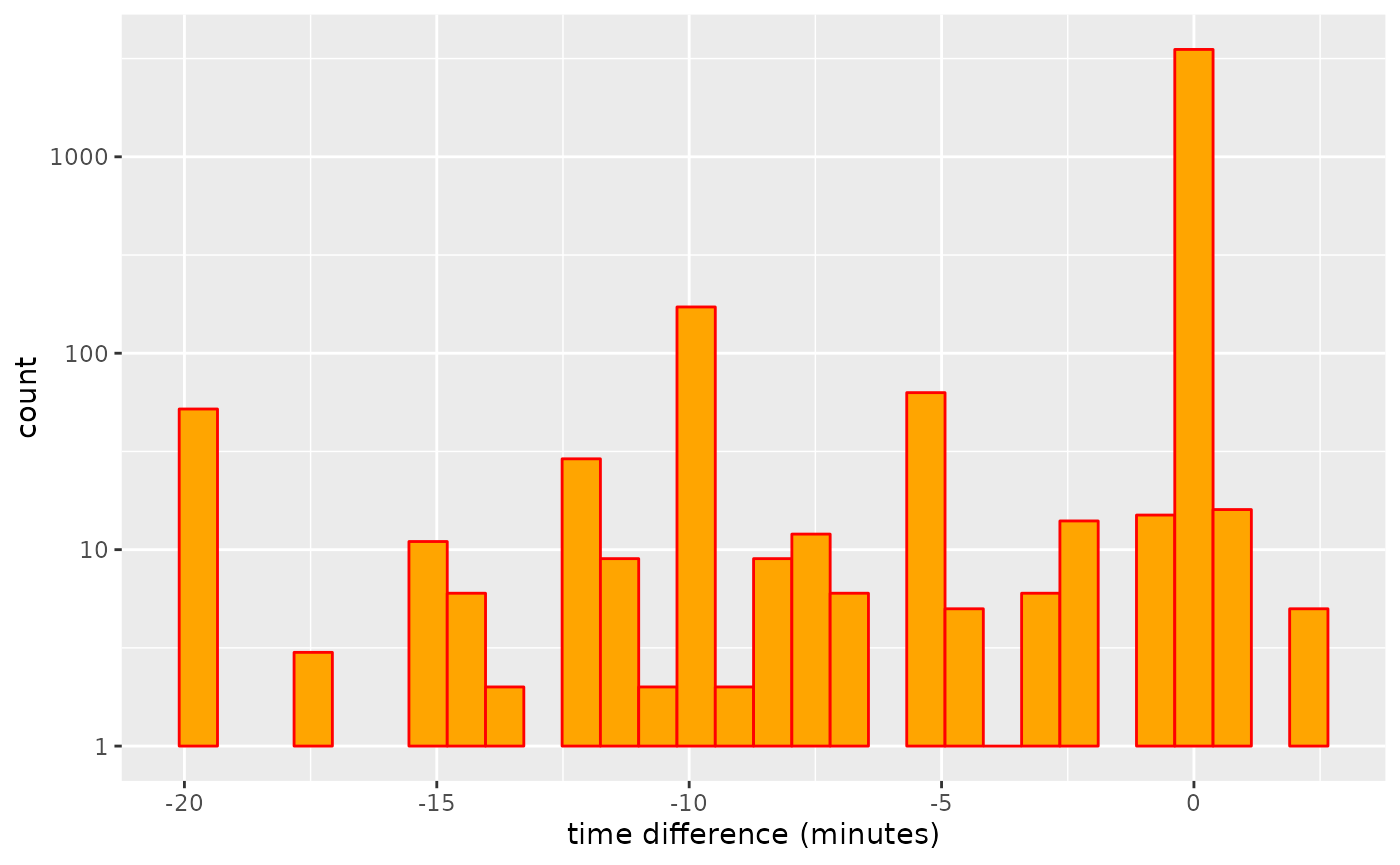
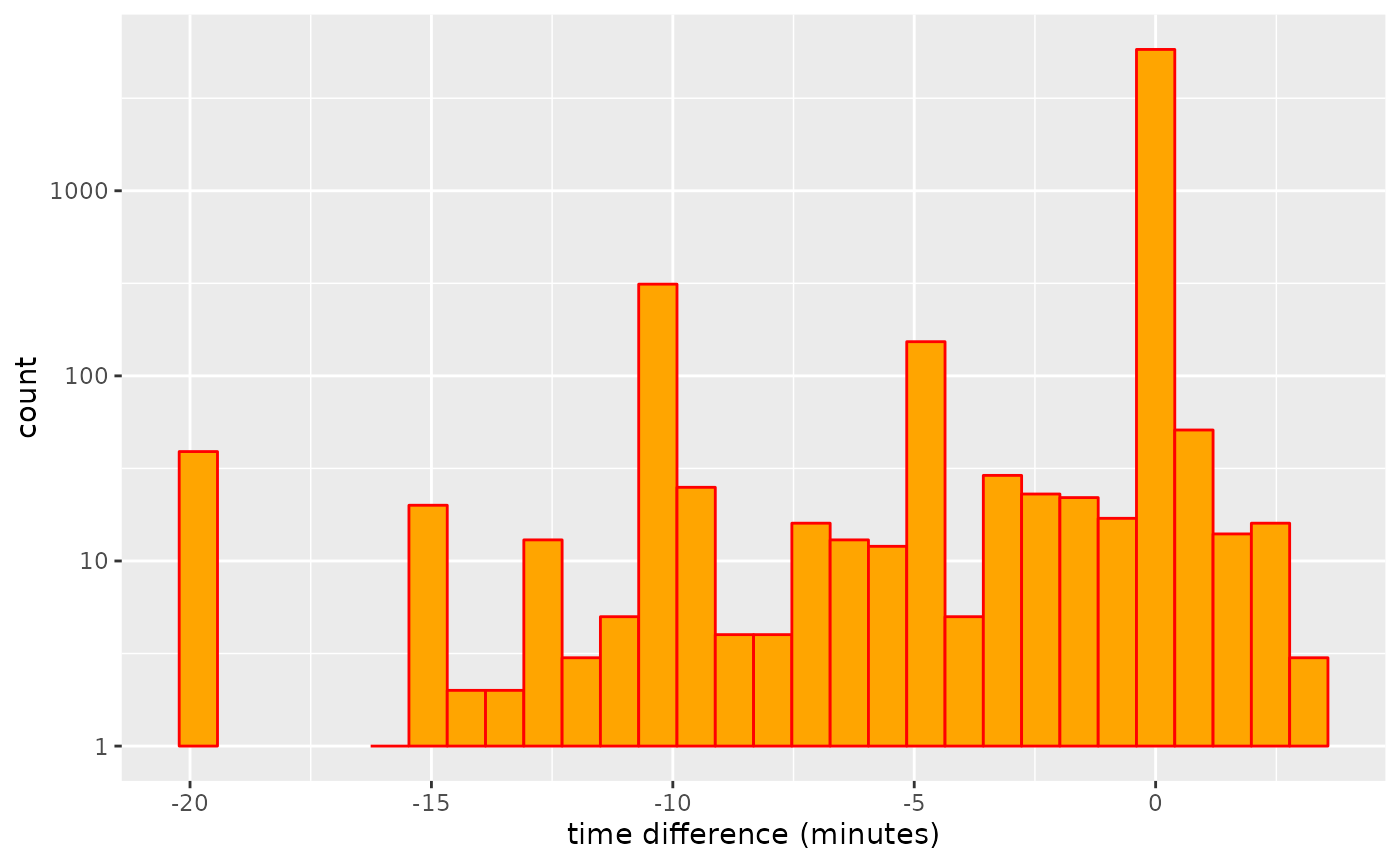
Deploying to gh-pages from @ UrbanAnalyst/gtfsrouter@def994a043a3b591fa6eb3aa555f8c587bdfed8a 🚀

diff --git a/docs/articles/gtfsrouter.html b/docs/articles/gtfsrouter.html
@@ -33,7 +33,7 @@
       </button>
       <span class="navbar-brand">
         <a class="navbar-link" href="../index.html">gtfsrouter</a>
-        <span class="version label label-default" data-toggle="tooltip" data-placement="bottom" title="">0.1.0.004</span>
+        <span class="version label label-default" data-toggle="tooltip" data-placement="bottom" title="">0.1.0.005</span>
       </span>
     </div>
 
@@ -126,7 +126,7 @@ to a locally-stored <code>.zip</code> archive in the
 data can be exported and re-imported with:</p>
 <div class="sourceCode" id="cb1"><pre class="downlit sourceCode r">
 <code class="sourceCode R"><span><span class="fu"><a href="../reference/berlin_gtfs_to_zip.html">berlin_gtfs_to_zip</a></span><span class="op">(</span><span class="op">)</span></span></code></pre></div>
-<pre><code><span><span class="co">## [1] "/tmp/Rtmp9mP8nu/vbb.zip"</span></span></code></pre>
+<pre><code><span><span class="co">## [1] "/tmp/Rtmp1UN9il/vbb.zip"</span></span></code></pre>
 <div class="sourceCode" id="cb3"><pre class="downlit sourceCode r">
 <code class="sourceCode R"><span><span class="va">f</span> <span class="op">&lt;-</span> <span class="fu"><a href="https://rdrr.io/r/base/file.path.html" class="external-link">file.path</a></span> <span class="op">(</span><span class="fu"><a href="https://rdrr.io/r/base/tempfile.html" class="external-link">tempdir</a></span> <span class="op">(</span><span class="op">)</span>, <span class="st">"vbb.zip"</span><span class="op">)</span></span>
 <span><span class="fu"><a href="https://rdrr.io/r/base/files.html" class="external-link">file.exists</a></span> <span class="op">(</span><span class="va">f</span><span class="op">)</span></span></code></pre></div>
@@ -347,7 +347,7 @@ data:</p>
 <span>                day <span class="op">=</span> <span class="st">"Sunday"</span><span class="op">)</span></span>
 <span>    <span class="op">)</span></span></code></pre></div>
 <pre><code><span><span class="co">##    user  system elapsed </span></span>
-<span><span class="co">##   0.076   0.000   0.076</span></span></code></pre>
+<span><span class="co">##   0.054   0.000   0.054</span></span></code></pre>
 <div class="sourceCode" id="cb14"><pre class="downlit sourceCode r">
 <code class="sourceCode R"><span><span class="fu"><a href="https://rdrr.io/r/base/names.html" class="external-link">names</a></span> <span class="op">(</span><span class="va">gtfs</span><span class="op">)</span></span></code></pre></div>
 <pre><code><span><span class="co">## [1] "calendar"   "routes"     "trips"      "stop_times" "stops"     </span></span>
@@ -365,7 +365,7 @@ data:</p>
 <span>                         to <span class="op">=</span> <span class="va">to</span>,</span>
 <span>                         start_time <span class="op">=</span> <span class="st">"12:00:00"</span><span class="op">)</span><span class="op">)</span></span></code></pre></div>
 <pre><code><span><span class="co">##    user  system elapsed </span></span>
-<span><span class="co">##   0.061   0.000   0.060</span></span></code></pre>
+<span><span class="co">##   0.042   0.000   0.042</span></span></code></pre>
 <p>Note that the <code>day</code> parameter is used to extract the
 timetable, after which it is no longer required in the actual call to
 <code><a href="../reference/gtfs_route.html">gtfs_route()</a></code>.</p>

diff --git a/docs/articles/traveltimes.html b/docs/articles/traveltimes.html
@@ -33,7 +33,7 @@
       </button>
       <span class="navbar-brand">
         <a class="navbar-link" href="../index.html">gtfsrouter</a>
-        <span class="version label label-default" data-toggle="tooltip" data-placement="bottom" title="">0.1.0.004</span>
+        <span class="version label label-default" data-toggle="tooltip" data-placement="bottom" title="">0.1.0.005</span>
       </span>
     </div>
 
@@ -101,7 +101,7 @@ function</a>, is necessary prior to calculating travel times.</p>
 <div class="sourceCode" id="cb1"><pre class="downlit sourceCode r">
 <code class="sourceCode R"><span><span class="kw"><a href="https://rdrr.io/r/base/library.html" class="external-link">library</a></span> <span class="op">(</span><span class="va"><a href="https://github.com/UrbanAnalyst/gtfsrouter" class="external-link">gtfsrouter</a></span><span class="op">)</span></span>
 <span><span class="fu"><a href="../reference/berlin_gtfs_to_zip.html">berlin_gtfs_to_zip</a></span> <span class="op">(</span><span class="op">)</span></span></code></pre></div>
-<pre><code><span><span class="co">## [1] "/tmp/RtmpDTcIhC/vbb.zip"</span></span></code></pre>
+<pre><code><span><span class="co">## [1] "/tmp/Rtmp9UzAre/vbb.zip"</span></span></code></pre>
 <div class="sourceCode" id="cb3"><pre class="downlit sourceCode r">
 <code class="sourceCode R"><span><span class="va">f</span> <span class="op">&lt;-</span> <span class="fu"><a href="https://rdrr.io/r/base/file.path.html" class="external-link">file.path</a></span> <span class="op">(</span><span class="fu"><a href="https://rdrr.io/r/base/tempfile.html" class="external-link">tempdir</a></span> <span class="op">(</span><span class="op">)</span>, <span class="st">"vbb.zip"</span><span class="op">)</span></span>
 <span><span class="va">gtfs</span> <span class="op">&lt;-</span> <span class="fu"><a href="../reference/extract_gtfs.html">extract_gtfs</a></span> <span class="op">(</span><span class="va">f</span>, quiet <span class="op">=</span> <span class="cn">TRUE</span><span class="op">)</span></span>

diff --git a/docs/reference/gtfs_transfer_table.html b/docs/reference/gtfs_transfer_table.html
@@ -17,7 +17,7 @@
       </button>
       <span class="navbar-brand">
         <a class="navbar-link" href="../index.html">gtfsrouter</a>
-        <span class="version label label-default" data-toggle="tooltip" data-placement="bottom" title="">0.1.0.004</span>
+        <span class="version label label-default" data-toggle="tooltip" data-placement="bottom" title="">0.1.0.005</span>
       </span>
     </div>
 
@@ -113,7 +113,7 @@ provided, this parameter is automatically set to <code>TRUE</code>.</p></dd>
     <div id="ref-examples">
     <h2>Examples</h2>
     <div class="sourceCode"><pre class="sourceCode r"><code><span class="r-in"><span><span class="fu"><a href="berlin_gtfs_to_zip.html">berlin_gtfs_to_zip</a></span> <span class="op">(</span><span class="op">)</span></span></span>
-<span class="r-out co"><span class="r-pr">#&gt;</span> [1] "/tmp/Rtmp9XQ18P/vbb.zip"</span>
+<span class="r-out co"><span class="r-pr">#&gt;</span> [1] "/tmp/Rtmptsfwwe/vbb.zip"</span>
 <span class="r-in"><span><span class="va">f</span> <span class="op">&lt;-</span> <span class="fu"><a href="https://rdrr.io/r/base/file.path.html" class="external-link">file.path</a></span> <span class="op">(</span><span class="fu"><a href="https://rdrr.io/r/base/tempfile.html" class="external-link">tempdir</a></span> <span class="op">(</span><span class="op">)</span>, <span class="st">"vbb.zip"</span><span class="op">)</span></span></span>
 <span class="r-in"><span><span class="va">g</span> <span class="op">&lt;-</span> <span class="fu"><a href="extract_gtfs.html">extract_gtfs</a></span> <span class="op">(</span><span class="va">f</span>, quiet <span class="op">=</span> <span class="cn">TRUE</span><span class="op">)</span></span></span>
 <span class="r-in"><span><span class="va">g</span> <span class="op">&lt;-</span> <span class="fu">gtfs_transfer_table</span> <span class="op">(</span><span class="va">g</span>, d_limit <span class="op">=</span> <span class="fl">200</span><span class="op">)</span></span></span>

diff --git a/docs/reference/gtfs_route.html b/docs/reference/gtfs_route.html
@@ -18,7 +18,7 @@ a specified time."><!-- mathjax --><script src="https://cdnjs.cloudflare.com/aja
       </button>
       <span class="navbar-brand">
         <a class="navbar-link" href="../index.html">gtfsrouter</a>
-        <span class="version label label-default" data-toggle="tooltip" data-placement="bottom" title="">0.1.0.004</span>
+        <span class="version label label-default" data-toggle="tooltip" data-placement="bottom" title="">0.1.0.005</span>
       </span>
     </div>
 
@@ -182,7 +182,7 @@ can be calculated by setting <code>earliest_arrival = FALSE</code>.</p>
     <div id="ref-examples">
     <h2>Examples</h2>
     <div class="sourceCode"><pre class="sourceCode r"><code><span class="r-in"><span><span class="fu"><a href="berlin_gtfs_to_zip.html">berlin_gtfs_to_zip</a></span> <span class="op">(</span><span class="op">)</span> <span class="co"># Write sample feed from Berlin, Germany to tempdir</span></span></span>
-<span class="r-out co"><span class="r-pr">#&gt;</span> [1] "/tmp/Rtmp9XQ18P/vbb.zip"</span>
+<span class="r-out co"><span class="r-pr">#&gt;</span> [1] "/tmp/Rtmptsfwwe/vbb.zip"</span>
 <span class="r-in"><span><span class="va">f</span> <span class="op">&lt;-</span> <span class="fu"><a href="https://rdrr.io/r/base/file.path.html" class="external-link">file.path</a></span> <span class="op">(</span><span class="fu"><a href="https://rdrr.io/r/base/tempfile.html" class="external-link">tempdir</a></span> <span class="op">(</span><span class="op">)</span>, <span class="st">"vbb.zip"</span><span class="op">)</span> <span class="co"># name of feed</span></span></span>
 <span class="r-in"><span><span class="va">gtfs</span> <span class="op">&lt;-</span> <span class="fu"><a href="extract_gtfs.html">extract_gtfs</a></span> <span class="op">(</span><span class="va">f</span><span class="op">)</span></span></span>
 <span class="r-msg co"><span class="r-pr">#&gt;</span> ▶<span style="color: #00BB00;"> Unzipping GTFS archive</span></span>

diff --git a/docs/reference/berlin_gtfs.html b/docs/reference/berlin_gtfs.html
@@ -23,7 +23,7 @@ characters.'><!-- mathjax --><script src="https://cdnjs.cloudflare.com/ajax/libs
       </button>
       <span class="navbar-brand">
         <a class="navbar-link" href="../index.html">gtfsrouter</a>
-        <span class="version label label-default" data-toggle="tooltip" data-placement="bottom" title="">0.1.0.004</span>
+        <span class="version label label-default" data-toggle="tooltip" data-placement="bottom" title="">0.1.0.005</span>
       </span>
     </div>
 
@@ -96,7 +96,7 @@ for which no route is possible return <code>NULL</code>.</p>
     <div id="ref-examples">
     <h2>Examples</h2>
     <div class="sourceCode"><pre class="sourceCode r"><code><span class="r-in"><span><span class="fu"><a href="berlin_gtfs_to_zip.html">berlin_gtfs_to_zip</a></span> <span class="op">(</span><span class="op">)</span> <span class="co"># Write sample feed from Berlin, Germany to tempdir</span></span></span>
-<span class="r-out co"><span class="r-pr">#&gt;</span> [1] "/tmp/Rtmp9XQ18P/vbb.zip"</span>
+<span class="r-out co"><span class="r-pr">#&gt;</span> [1] "/tmp/Rtmptsfwwe/vbb.zip"</span>
 <span class="r-in"><span><span class="va">f</span> <span class="op">&lt;-</span> <span class="fu"><a href="https://rdrr.io/r/base/file.path.html" class="external-link">file.path</a></span> <span class="op">(</span><span class="fu"><a href="https://rdrr.io/r/base/tempfile.html" class="external-link">tempdir</a></span> <span class="op">(</span><span class="op">)</span>, <span class="st">"vbb.zip"</span><span class="op">)</span> <span class="co"># name of feed</span></span></span>
 <span class="r-in"><span><span class="va">gtfs</span> <span class="op">&lt;-</span> <span class="fu"><a href="extract_gtfs.html">extract_gtfs</a></span> <span class="op">(</span><span class="va">f</span><span class="op">)</span></span></span>
 <span class="r-msg co"><span class="r-pr">#&gt;</span> ▶<span style="color: #00BB00;"> Unzipping GTFS archive</span></span>

diff --git a/docs/reference/gtfs_timetable.html b/docs/reference/gtfs_timetable.html
@@ -17,7 +17,7 @@
       </button>
       <span class="navbar-brand">
         <a class="navbar-link" href="../index.html">gtfsrouter</a>
-        <span class="version label label-default" data-toggle="tooltip" data-placement="bottom" title="">0.1.0.004</span>
+        <span class="version label label-default" data-toggle="tooltip" data-placement="bottom" title="">0.1.0.005</span>
       </span>
     </div>
 
@@ -126,7 +126,7 @@ that case will generally take longer.</p>
     <div id="ref-examples">
     <h2>Examples</h2>
     <div class="sourceCode"><pre class="sourceCode r"><code><span class="r-in"><span><span class="fu"><a href="berlin_gtfs_to_zip.html">berlin_gtfs_to_zip</a></span> <span class="op">(</span><span class="op">)</span> <span class="co"># Write sample feed from Berlin, Germany to tempdir</span></span></span>
-<span class="r-out co"><span class="r-pr">#&gt;</span> [1] "/tmp/Rtmp9XQ18P/vbb.zip"</span>
+<span class="r-out co"><span class="r-pr">#&gt;</span> [1] "/tmp/Rtmptsfwwe/vbb.zip"</span>
 <span class="r-in"><span><span class="va">f</span> <span class="op">&lt;-</span> <span class="fu"><a href="https://rdrr.io/r/base/file.path.html" class="external-link">file.path</a></span> <span class="op">(</span><span class="fu"><a href="https://rdrr.io/r/base/tempfile.html" class="external-link">tempdir</a></span> <span class="op">(</span><span class="op">)</span>, <span class="st">"vbb.zip"</span><span class="op">)</span> <span class="co"># name of feed</span></span></span>
 <span class="r-in"><span><span class="va">gtfs</span> <span class="op">&lt;-</span> <span class="fu"><a href="extract_gtfs.html">extract_gtfs</a></span> <span class="op">(</span><span class="va">f</span><span class="op">)</span></span></span>
 <span class="r-msg co"><span class="r-pr">#&gt;</span> ▶<span style="color: #00BB00;"> Unzipping GTFS archive</span></span>

diff --git a/docs/reference/gtfs_traveltimes.html b/docs/reference/gtfs_traveltimes.html
@@ -18,7 +18,7 @@ other reachable station in a system."><!-- mathjax --><script src="https://cdnjs
       </button>
       <span class="navbar-brand">
         <a class="navbar-link" href="../index.html">gtfsrouter</a>
-        <span class="version label label-default" data-toggle="tooltip" data-placement="bottom" title="">0.1.0.004</span>
+        <span class="version label label-default" data-toggle="tooltip" data-placement="bottom" title="">0.1.0.005</span>
       </span>
     </div>
 
@@ -155,7 +155,7 @@ to reach all or most stations desired for a particular query, rather than set
     <div id="ref-examples">
     <h2>Examples</h2>
     <div class="sourceCode"><pre class="sourceCode r"><code><span class="r-in"><span><span class="fu"><a href="berlin_gtfs_to_zip.html">berlin_gtfs_to_zip</a></span> <span class="op">(</span><span class="op">)</span></span></span>
-<span class="r-out co"><span class="r-pr">#&gt;</span> [1] "/tmp/Rtmp9XQ18P/vbb.zip"</span>
+<span class="r-out co"><span class="r-pr">#&gt;</span> [1] "/tmp/Rtmptsfwwe/vbb.zip"</span>
 <span class="r-in"><span><span class="va">f</span> <span class="op">&lt;-</span> <span class="fu"><a href="https://rdrr.io/r/base/file.path.html" class="external-link">file.path</a></span> <span class="op">(</span><span class="fu"><a href="https://rdrr.io/r/base/tempfile.html" class="external-link">tempdir</a></span> <span class="op">(</span><span class="op">)</span>, <span class="st">"vbb.zip"</span><span class="op">)</span></span></span>
 <span class="r-in"><span><span class="va">g</span> <span class="op">&lt;-</span> <span class="fu"><a href="extract_gtfs.html">extract_gtfs</a></span> <span class="op">(</span><span class="va">f</span><span class="op">)</span></span></span>
 <span class="r-msg co"><span class="r-pr">#&gt;</span> ▶<span style="color: #00BB00;"> Unzipping GTFS archive</span></span>

diff --git a/docs/reference/extract_gtfs.html b/docs/reference/extract_gtfs.html
@@ -17,7 +17,7 @@
       </button>
       <span class="navbar-brand">
         <a class="navbar-link" href="../index.html">gtfsrouter</a>
-        <span class="version label label-default" data-toggle="tooltip" data-placement="bottom" title="">0.1.0.004</span>
+        <span class="version label label-default" data-toggle="tooltip" data-placement="bottom" title="">0.1.0.005</span>
       </span>
     </div>
 
@@ -102,7 +102,7 @@ function to the two time columns of the "stop_times" table.</p>
     <div id="ref-examples">
     <h2>Examples</h2>
     <div class="sourceCode"><pre class="sourceCode r"><code><span class="r-in"><span><span class="fu"><a href="berlin_gtfs_to_zip.html">berlin_gtfs_to_zip</a></span> <span class="op">(</span><span class="op">)</span> <span class="co"># Write sample feed from Berlin, Germany to tempdir</span></span></span>
-<span class="r-out co"><span class="r-pr">#&gt;</span> [1] "/tmp/Rtmp9XQ18P/vbb.zip"</span>
+<span class="r-out co"><span class="r-pr">#&gt;</span> [1] "/tmp/Rtmptsfwwe/vbb.zip"</span>
 <span class="r-in"><span><span class="va">f</span> <span class="op">&lt;-</span> <span class="fu"><a href="https://rdrr.io/r/base/file.path.html" class="external-link">file.path</a></span> <span class="op">(</span><span class="fu"><a href="https://rdrr.io/r/base/tempfile.html" class="external-link">tempdir</a></span> <span class="op">(</span><span class="op">)</span>, <span class="st">"vbb.zip"</span><span class="op">)</span> <span class="co"># name of feed</span></span></span>
 <span class="r-in"><span><span class="va">gtfs</span> <span class="op">&lt;-</span> <span class="fu">extract_gtfs</span> <span class="op">(</span><span class="va">f</span><span class="op">)</span></span></span>
 <span class="r-msg co"><span class="r-pr">#&gt;</span> ▶<span style="color: #00BB00;"> Unzipping GTFS archive</span></span>

diff --git a/docs/articles/transfers.html b/docs/articles/transfers.html
@@ -33,7 +33,7 @@
       </button>
       <span class="navbar-brand">
         <a class="navbar-link" href="../index.html">gtfsrouter</a>
-        <span class="version label label-default" data-toggle="tooltip" data-placement="bottom" title="">0.1.0.004</span>
+        <span class="version label label-default" data-toggle="tooltip" data-placement="bottom" title="">0.1.0.005</span>
       </span>
     </div>
 
@@ -594,9 +594,9 @@ range of distance limits.</p>
 <p><img src="transfers_files/figure-html/plot1-1.png" width="700"></p>
 <p>And these additional transfer possibilities can make a significant
 difference to estimated travel times. Note, however, that the travel
-times only changed for 440 stations, while the value of
+times only changed for 734 stations, while the value of
 <code>nsame</code> value recording numbers of stations for which travel
-times did not change was 3,480. Travel times may also increase as
+times did not change was 4,888. Travel times may also increase as
 additional transfers may be used to reduce numbers of connecting
 services required for a particular trip, and the algorithm generally
 searches for connections with minimal numbers of transfers.</p>
@@ -678,7 +678,7 @@ limits of maximal transfer distance, although the overall effect is very
 minimal. The object <code>d</code> also records the proportion of
 station pairs for which modifications to the transfers table actually
 changed travel times, which in this case amounts to a mean value of
-0.0016, clearly revealing that very few trips actually change.</p>
+0.0019, clearly revealing that very few trips actually change.</p>
 <div class="section level3">
 <h3 id="a-more-realistic-example">A more realistic example<a class="anchor" aria-label="anchor" href="#a-more-realistic-example"></a>
 </h3>

diff --git a/docs/reference/summary.gtfs.html b/docs/reference/summary.gtfs.html
@@ -17,7 +17,7 @@
       </button>
       <span class="navbar-brand">
         <a class="navbar-link" href="../index.html">gtfsrouter</a>
-        <span class="version label label-default" data-toggle="tooltip" data-placement="bottom" title="">0.1.0.004</span>
+        <span class="version label label-default" data-toggle="tooltip" data-placement="bottom" title="">0.1.0.005</span>
       </span>
     </div>
 
@@ -81,7 +81,7 @@
     <div id="ref-examples">
     <h2>Examples</h2>
     <div class="sourceCode"><pre class="sourceCode r"><code><span class="r-in"><span><span class="fu"><a href="berlin_gtfs_to_zip.html">berlin_gtfs_to_zip</a></span> <span class="op">(</span><span class="op">)</span></span></span>
-<span class="r-out co"><span class="r-pr">#&gt;</span> [1] "/tmp/Rtmp9XQ18P/vbb.zip"</span>
+<span class="r-out co"><span class="r-pr">#&gt;</span> [1] "/tmp/Rtmptsfwwe/vbb.zip"</span>
 <span class="r-in"><span><span class="va">f</span> <span class="op">&lt;-</span> <span class="fu"><a href="https://rdrr.io/r/base/file.path.html" class="external-link">file.path</a></span> <span class="op">(</span><span class="fu"><a href="https://rdrr.io/r/base/tempfile.html" class="external-link">tempdir</a></span> <span class="op">(</span><span class="op">)</span>, <span class="st">"vbb.zip"</span><span class="op">)</span></span></span>
 <span class="r-in"><span><span class="va">g</span> <span class="op">&lt;-</span> <span class="fu"><a href="extract_gtfs.html">extract_gtfs</a></span> <span class="op">(</span><span class="va">f</span><span class="op">)</span></span></span>
 <span class="r-msg co"><span class="r-pr">#&gt;</span> ▶<span style="color: #00BB00;"> Unzipping GTFS archive</span></span>

diff --git a/docs/authors.html b/docs/authors.html
@@ -17,7 +17,7 @@
       </button>
       <span class="navbar-brand">
         <a class="navbar-link" href="index.html">gtfsrouter</a>
-        <span class="version label label-default" data-toggle="tooltip" data-placement="bottom" title="">0.1.0.004</span>
+        <span class="version label label-default" data-toggle="tooltip" data-placement="bottom" title="">0.1.0.005</span>
       </span>
     </div>
 
@@ -74,13 +74,13 @@
 
     <p>Padgham M, Stepniak M (2023).
 <em>gtfsrouter: Routing with GTFS (General Transit Feed Specification) Data</em>.
-R package version 0.1.0.004, <a href="https://github.com/UrbanAnalyst/gtfsrouter" class="external-link">https://github.com/UrbanAnalyst/gtfsrouter</a>. 
+R package version 0.1.0.005, <a href="https://github.com/UrbanAnalyst/gtfsrouter" class="external-link">https://github.com/UrbanAnalyst/gtfsrouter</a>. 
 </p>
     <pre>@Manual{,
   title = {gtfsrouter: Routing with GTFS (General Transit Feed Specification) Data},
   author = {Mark Padgham and Marcin Stepniak},
   year = {2023},
-  note = {R package version 0.1.0.004},
+  note = {R package version 0.1.0.005},
   url = {https://github.com/UrbanAnalyst/gtfsrouter},
 }</pre>
 

diff --git a/docs/reference/berlin_gtfs_to_zip.html b/docs/reference/berlin_gtfs_to_zip.html
@@ -18,7 +18,7 @@ a file named "vbb.zip" to tempdir().'><!-- mathjax --><script src="https://cdnjs
       </button>
       <span class="navbar-brand">
         <a class="navbar-link" href="../index.html">gtfsrouter</a>
-        <span class="version label label-default" data-toggle="tooltip" data-placement="bottom" title="">0.1.0.004</span>
+        <span class="version label label-default" data-toggle="tooltip" data-placement="bottom" title="">0.1.0.005</span>
       </span>
     </div>
 
